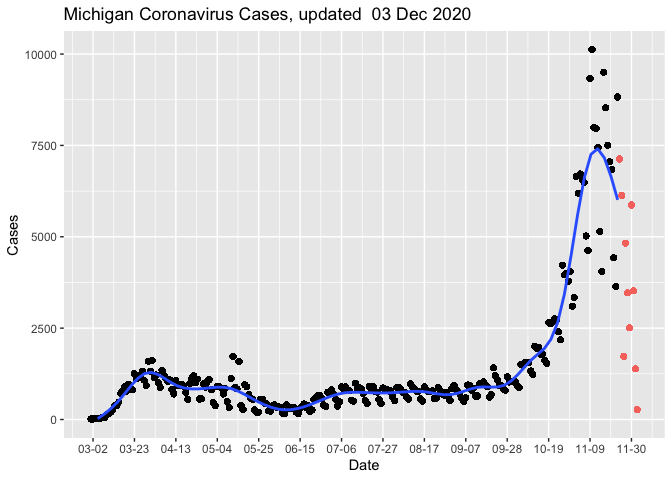
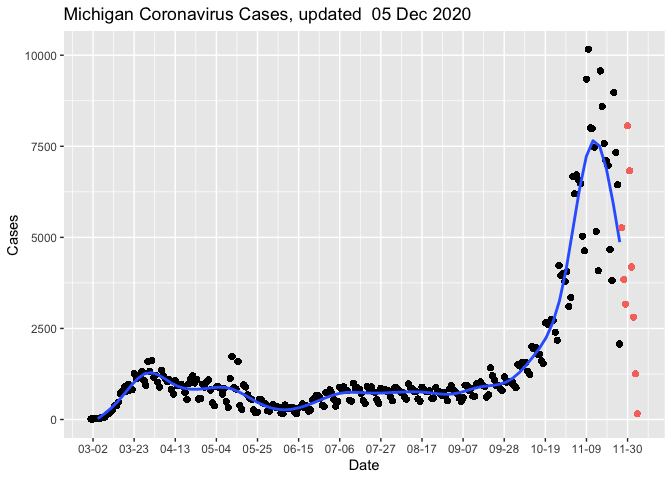
renamed xlsx file, update

diff --git a/MiCorona.md b/MiCorona.md
@@ -1,7 +1,7 @@
 Michigan COVID Data
 ================
 Adam D. DenHaan
-Dec 03, 2020
+Dec 06, 2020
 
 ``` python
 from urllib.request import urlopen
@@ -34,7 +34,7 @@ mi_data = readxl::read_excel("data/file.xlsx")
 glimpse(mi_data)
 ```
 
-    ## Rows: 48,935
+    ## Rows: 49,286
     ## Columns: 8
     ## $ COUNTY            <chr> "Alcona", "Alcona", "Alcona", "Alcona", "Alcona", "…
     ## $ Date              <dttm> 2020-03-01, 2020-03-02, 2020-03-03, 2020-03-04, 20…
@@ -43,7 +43,7 @@ glimpse(mi_data)
     ## $ Deaths            <dbl> 0, 0, 0, 0, 0, 0, 0, 0, 0, 0, 0, 0, 0, 0, 0, 0, 0, …
     ## $ Cases.Cumulative  <dbl> 0, 0, 0, 0, 0, 0, 0, 0, 0, 0, 0, 0, 0, 0, 0, 0, 0, …
     ## $ Deaths.Cumulative <dbl> 0, 0, 0, 0, 0, 0, 0, 0, 0, 0, 0, 0, 0, 0, 0, 0, 0, …
-    ## $ Updated           <dttm> 2020-12-03 14:49:35, 2020-12-03 14:49:35, 2020-12-…
+    ## $ Updated           <dttm> 2020-12-05 13:52:54, 2020-12-05 13:52:54, 2020-12-…
 
 Wrangle Data:
 
@@ -96,5 +96,5 @@ mi_cases_by_day_exclusive %>%
 
 ![](MiCorona_files/figure-gfm/viz-1.png)<!-- -->
 
-Note that the last 10 days of data have been colored red on the graph,
-as they frequently change as more information becomes available.
+Note that the last 9 days of data have been colored red on the graph, as
+they frequently change as more information becomes available.
